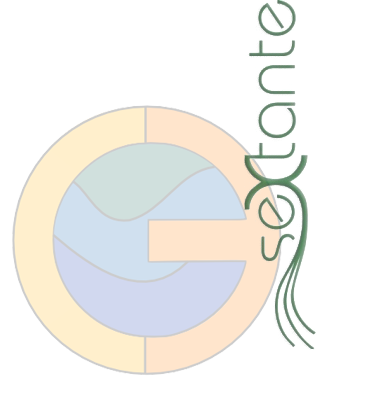
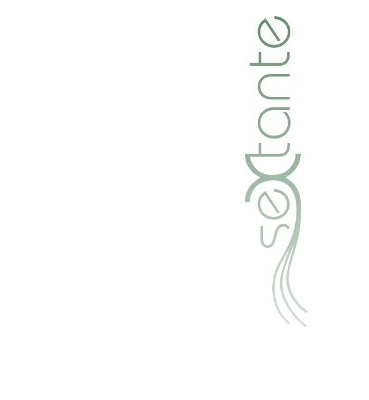
Merge branch '112_gvSIG'

diff --git a/soft/bindings/gvsig_bindings/config/first_time.html b/soft/bindings/gvsig_bindings/config/first_time.html
@@ -1,7 +1,7 @@
 <!DOCTYPE HTML PUBLIC "-//W3C//DTD HTML 4.01 Transitional//EN">
 <html><head>
 </head>
-<body style="background-repeat: no-repeat; background-image: url(sextante_ce.png);"><br><br><br><br><br><br>This
+<body style="background-repeat: no-repeat; background-image: url(logo.jpg);"><br><br><br><br><br><br>This
 is the first time you are using this version of SEXTANTE. It contains
 several important new features, so we recommend you to read the user
 manual before starting to use it. Here are a few ideas to start

diff --git a/soft/bindings/gvsig_bindings/src/es/unex/sextante/gvsig/gui/gvGUIFactory.java b/soft/bindings/gvsig_bindings/src/es/unex/sextante/gvsig/gui/gvGUIFactory.java
@@ -77,13 +77,6 @@ public class gvGUIFactory
    }
 
 
-   private URL getCEWarningWebpageURL() throws MalformedURLException {
-
-      return new File(SextanteGUI.getSextantePath() + File.separator + "ce_warning.html").toURL();
-
-   }
-
-
    private void showFirstTimeWarning() {
 
       final boolean b = new Boolean(SextanteGUI.getSettingParameterValue(IS_NOT_FIRST_TIME_USING_SEXTANTE
@@ -100,12 +93,7 @@ public class gvGUIFactory
          jEditorPane.setBorder(BorderFactory.createEtchedBorder(BevelBorder.LOWERED));
          jEditorPane.setContentType("text/html");
          try {
-            if (VersionChecker.isGvSIGCE()) {
-               jEditorPane.setPage(getFirstTimeWebpageURL());
-            }
-            else {
-               jEditorPane.setPage(getCEWarningWebpageURL());
-            }
+        	 jEditorPane.setPage(getFirstTimeWebpageURL());
          }
          catch (final Exception e) {
             return;
@@ -253,24 +241,22 @@ public class gvGUIFactory
    public HashMap<NameAndIcon, ArrayList<ToolboxAction>> getToolboxActions() {
 
       final HashMap<NameAndIcon, ArrayList<ToolboxAction>> map = new HashMap<NameAndIcon, ArrayList<ToolboxAction>>();
-      if (VersionChecker.isGvSIGCE()) {
-         final NameAndIcon nai = new NameAndIcon("gvSIG", GVSIG_ICON);
-         final ArrayList<ToolboxAction> algs = new ArrayList<ToolboxAction>();
-         algs.add(new BufferToolboxAction());
-         algs.add(new DifferenceToolboxAction());
-         algs.add(new ClipToolboxAction());
-         algs.add(new DissolveToolboxAction());
-         algs.add(new MergeToolboxAction());
-         algs.add(new SpatialJoinToolboxAction());
-         algs.add(new IntersectionToolboxAction());
-         algs.add(new UnionToolboxAction());
-         algs.add(new MosaicToolboxAction());
-         algs.add(new DecisionTreeToolboxAction());
-         algs.add(new TransformationToolboxAction());
-         algs.add(new ClassificationToolboxAction());
-         algs.add(new VectorizeToolboxAction());
-         map.put(nai, algs);
-      }
+      final NameAndIcon nai = new NameAndIcon("gvSIG", GVSIG_ICON);
+      final ArrayList<ToolboxAction> algs = new ArrayList<ToolboxAction>();
+      algs.add(new BufferToolboxAction());
+      algs.add(new DifferenceToolboxAction());
+      algs.add(new ClipToolboxAction());
+      algs.add(new DissolveToolboxAction());
+      algs.add(new MergeToolboxAction());
+      algs.add(new SpatialJoinToolboxAction());
+      algs.add(new IntersectionToolboxAction());
+      algs.add(new UnionToolboxAction());
+      algs.add(new MosaicToolboxAction());
+      algs.add(new DecisionTreeToolboxAction());
+      algs.add(new TransformationToolboxAction());
+      algs.add(new ClassificationToolboxAction());
+      algs.add(new VectorizeToolboxAction());
+      map.put(nai, algs);
 
       return map;
 
